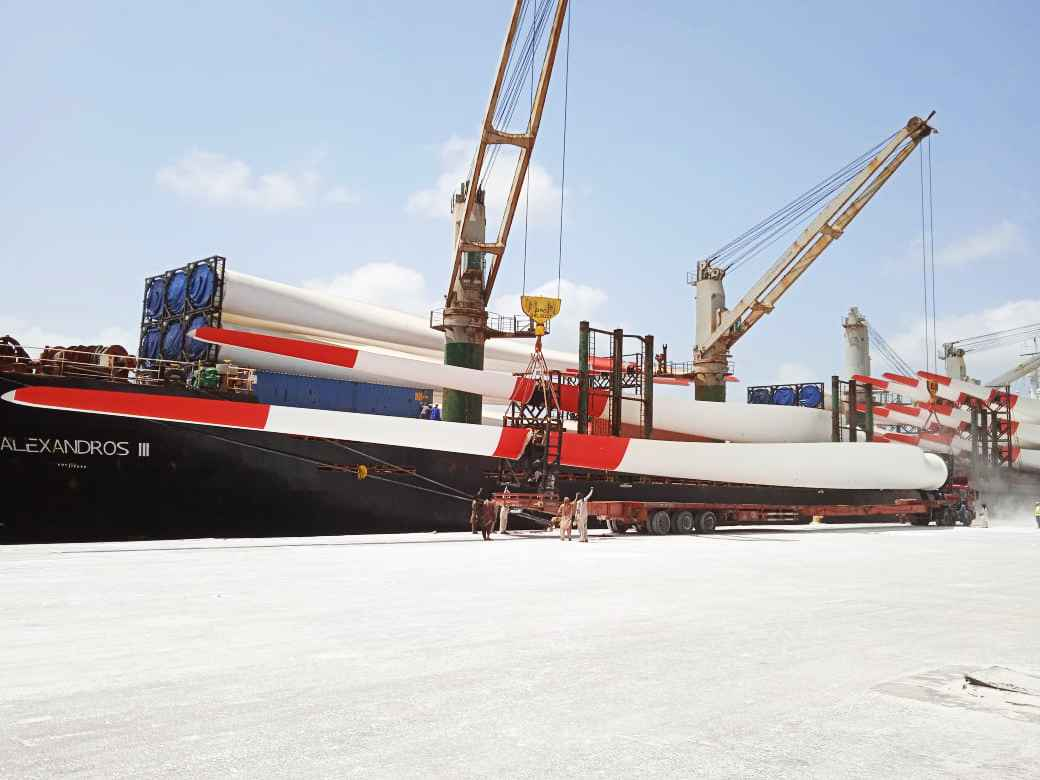
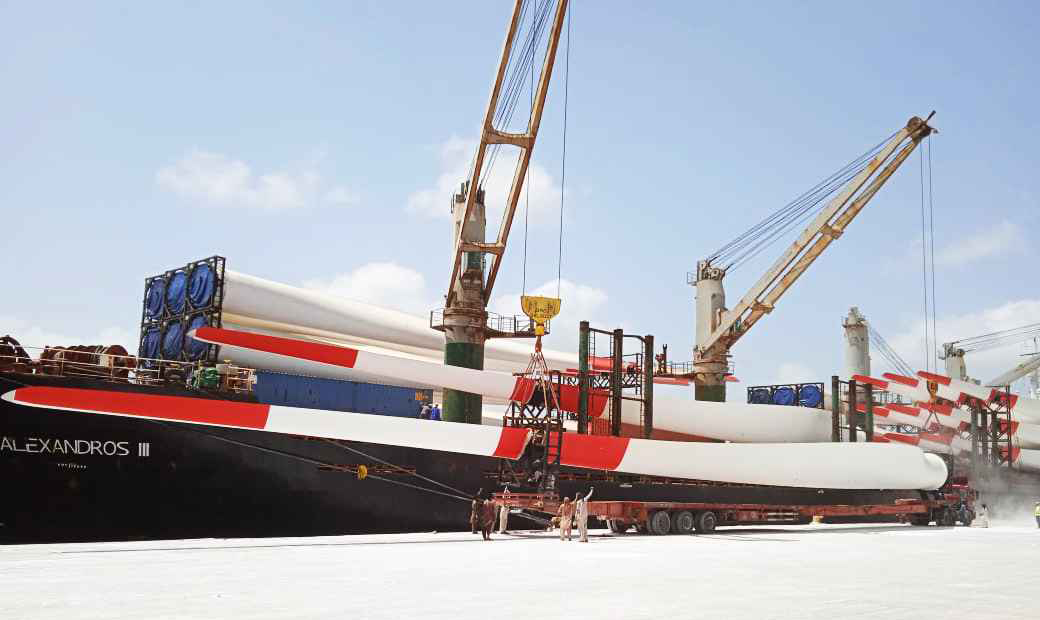
update images

diff --git a/resources/views/frontend/pages/services/roadTransport.blade.php b/resources/views/frontend/pages/services/roadTransport.blade.php
@@ -30,7 +30,7 @@
 </style>
 @endpush
 <section class="page-title page-title-4  bg-overlay bg-overlay-dark bg-parallax" id="page-title">
-    <div class="bg-section"><img src="{{asset('assets/images/page-titles/roadtrans.jpg')}}" alt="Background"></div>
+    <div class="bg-section"><img src="{{asset('assets/images/page-titles/roadtrans.png')}}" alt="Background"></div>
     <div class="container">
     <div class="row">
        <div class="col-12 col-lg-6">
